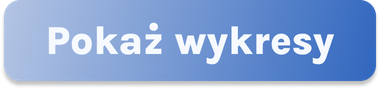
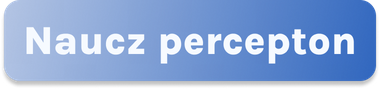
Create points from GUI

Changed region(s): [[0.0579, 0.2921, 0.9553, 0.7416], [0.3763, 0.2472, 0.4342, 0.3596]]

diff --git a/main.py b/main.py
@@ -89,9 +89,51 @@ def learn():
         if neuron.errors[-1] <= learning_threshold:
             break
 
+def open_custom_point_window():
+    custom_window = tk.Toplevel(window)
+    custom_window.title("Custom Point Selector")
+    custom_window.geometry("300x350")
+
+    points = []
+
+    # Etykiety do wyświetlania wartości układu współrzędnych
+    coord_label = tk.Label(custom_window, text="X: 0, Y: 0")
+    coord_label.pack(pady=5)
+
+    def on_click(event):
+        canvas_height = 250
+        x, y = event.x, event.y
+        # Przeskalowanie współrzędnych do zakresu <0, 25>
+        x_scaled = x / 10
+        y_scaled = (canvas_height - y) / 10  # Odwrócenie osi Y
+        label = label_var.get()
+        canvas.create_oval(x-2, y-2, x+2, y+2, fill='black')
+        points.append((x_scaled, y_scaled, label))
+        coord_label.config(text=f"X: {x_scaled:.2f}, Y: {y_scaled:.2f}")
+    def save_points():
+        training_data.clear()
+        for point in points:
+            x, y, label = point
+            training_data.append(point)
+        messagebox.showinfo("Punkty wczytane", "Wczytano punkty")
+        custom_window.destroy()
+
+    canvas = tk.Canvas(custom_window, bg="white")
+    canvas.pack(fill=tk.BOTH, expand=True)
+    canvas.bind("<Button-1>", on_click)
+
+    label_var = tk.IntVar()
+    label_frame = tk.Frame(custom_window)
+    label_frame.pack()
+    tk.Radiobutton(label_frame, text="Label 0", variable=label_var, value=0).pack(side=tk.LEFT)
+    tk.Radiobutton(label_frame, text="Label 1", variable=label_var, value=1).pack(side=tk.LEFT)
+    label_var.set(0)
+
+    save_button = tk.Button(custom_window, text="Save Points", command=save_points)
+    save_button.pack()
+
 OUTPUT_PATH = Path(__file__).parent
 ASSETS_PATH = OUTPUT_PATH / "assets" / "frame0"
-
 
 def relative_to_assets(path: str) -> Path:
     return ASSETS_PATH / Path(path)
@@ -123,12 +165,12 @@ canvas.create_rectangle(
     outline="")
 
 canvas.create_text(
-    600.0,
-    55.0,
-    anchor="center",
+    0.0,
+    0.0,
+    anchor="nw",
     text="Perceptron",
     fill="#F6F9FF",
-    font=("Arial", 96, "bold")
+    font=("Karla ExtraBold", 96 * -1)
 )
 
 button_image_1 = PhotoImage(
@@ -158,8 +200,8 @@ button_2 = Button(
 )
 button_2.place(
     x=714.0,
-    y=174.0,
-    width=372.0,
+    y=170.0,
+    width=184.0,
     height=81.0
 )
 
@@ -169,13 +211,13 @@ button_3 = Button(
     image=button_image_3,
     borderwidth=0,
     highlightthickness=0,
-    command=learn,
+    command=open_custom_point_window,
     relief="flat"
 )
 button_3.place(
-    x=114.0,
-    y=327.0,
-    width=372.0,
+    x=902.0,
+    y=170.0,
+    width=184.0,
     height=81.0
 )
 
@@ -185,10 +227,26 @@ button_4 = Button(
     image=button_image_4,
     borderwidth=0,
     highlightthickness=0,
-    command=plot_graph,
+    command=learn,
     relief="flat"
 )
 button_4.place(
+    x=114.0,
+    y=327.0,
+    width=372.0,
+    height=81.0
+)
+
+button_image_5 = PhotoImage(
+    file=relative_to_assets("button_5.png"))
+button_5 = Button(
+    image=button_image_5,
+    borderwidth=0,
+    highlightthickness=0,
+    command=plot_graph,
+    relief="flat"
+)
+button_5.place(
     x=714.0,
     y=327.0,
     width=372.0,
@@ -198,7 +256,7 @@ button_4.place(
 plot_frame = tk.Frame(window)
 plot_frame.place(
     x=50.0,
-    y=450.0,
+    y=410.0,
     width=1100.0,
     height=400.0
 )
